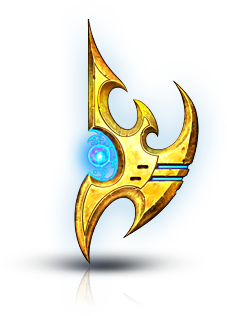
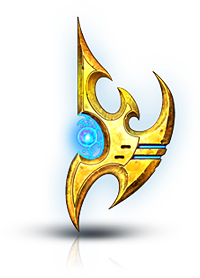
Set image width, edited button

diff --git a/src/pages/index.tsx b/src/pages/index.tsx
@@ -34,8 +34,8 @@ const Home: NextPage = () => {
         <meta name="description" content="Generated by create-t3-app" />
         <link rel="icon" href="/favicon.ico" />
       </Head>
-      <main className="flex min-h-screen flex-col items-center px-4 pt-36">
-        <h1 className="text-2xl">Welcome to SC2 Build Orders</h1>
+      <main className="flex min-h-screen flex-col items-center px-4 pt-24">
+        {/* <h1 className="text-2xl">Welcome to SC2 Build Orders</h1> */}
 
         <form className="mt-8">
           <h2 className="flex flex-col items-center text-xl">Your Race</h2>
@@ -47,7 +47,7 @@ const Home: NextPage = () => {
               onClick={handleRace}
               src="/images/terran.png"
               alt="terran"
-              width="auto"
+              width="200"
               height="auto"
             />
             <input
@@ -57,7 +57,7 @@ const Home: NextPage = () => {
               onClick={handleRace}
               src="/images/protoss.png"
               alt="protoss"
-              width="auto"
+              width="200"
               height="auto"
             />
             <input
@@ -67,18 +67,18 @@ const Home: NextPage = () => {
               onClick={handleRace}
               src="/images/zerg.png"
               alt="zerg"
-              width="auto"
+              width="200"
               height="auto"
             />
           </div>
 
           <div className="my-4 flex flex-col items-center text-4xl font-extrabold">
-            VS
+            ----- VS -----
           </div>
-          <h2 className="flex flex-col items-center text-xl">
+          <h2 className="mt-8 flex flex-col items-center text-xl">
             Opponent&apos;s Race
           </h2>
-          <div className="flex items-center text-xl font-medium">
+          <div className="flex items-center">
             <input
               type="image"
               id="terran"
@@ -86,7 +86,7 @@ const Home: NextPage = () => {
               onClick={handleRaceOpponent}
               src="/images/terran.png"
               alt="terran"
-              width="auto"
+              width="200"
               height="auto"
             />
             <input
@@ -96,7 +96,7 @@ const Home: NextPage = () => {
               onClick={handleRaceOpponent}
               src="/images/protoss.png"
               alt="protoss"
-              width="auto"
+              width="200"
               height="auto"
             />
             <input
@@ -106,19 +106,19 @@ const Home: NextPage = () => {
               onClick={handleRaceOpponent}
               src="/images/zerg.png"
               alt="zerg"
-              width="auto"
+              width="200"
               height="auto"
             />
           </div>
+          <div className="mt-4 flex justify-center">
+            <button
+              className="w-full items-center rounded-lg bg-orange px-4 py-2 text-center text-sm font-medium hover:bg-white hover:text-navy"
+              onClick={handleMatchup}
+            >
+              Submit
+            </button>
+          </div>
         </form>
-        <div className="mt-4 flex justify-center">
-          <button
-            className="items-center rounded-lg bg-orange px-3 py-2 text-center text-sm font-medium hover:bg-white hover:text-navy"
-            onClick={handleMatchup}
-          >
-            Submit
-          </button>
-        </div>
       </main>
     </>
   )
